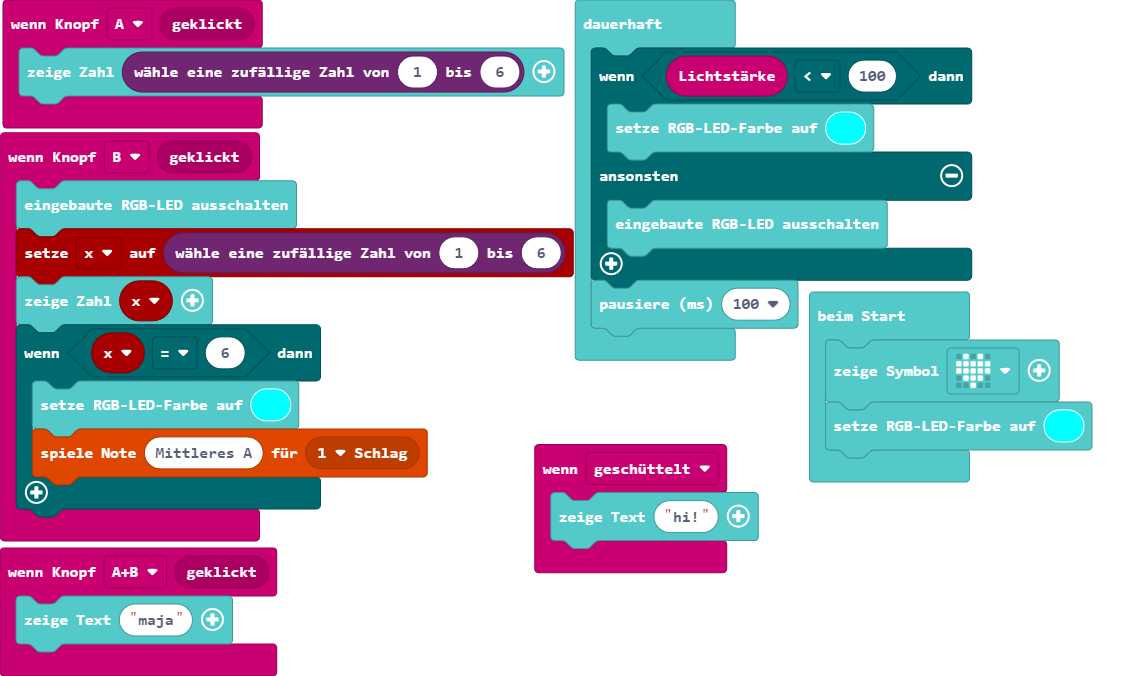
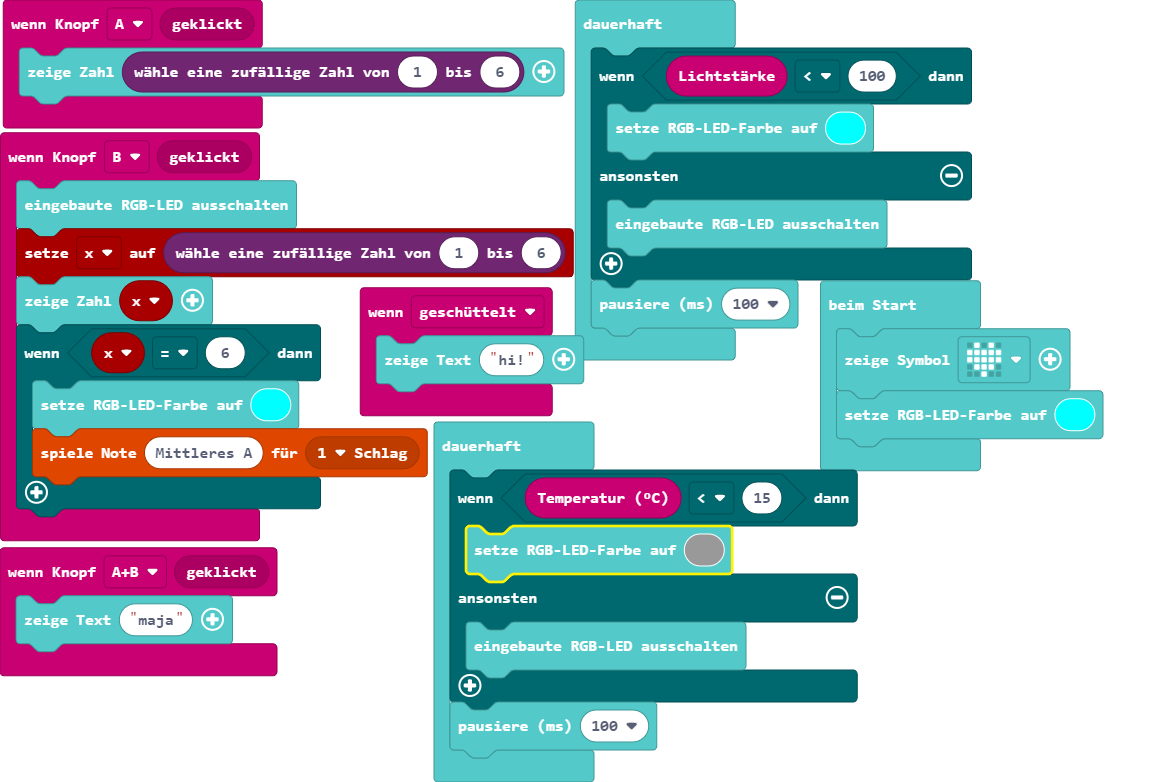
Aktualisiere main.blocks, main.ts

diff --git a/main.ts b/main.ts
@@ -27,3 +27,11 @@ basic.forever(function () {
     }
     basic.pause(100)
 })
+basic.forever(function () {
+    if (input.temperature() < 15) {
+        basic.setLedColor(0x999999)
+    } else {
+        basic.turnRgbLedOff()
+    }
+    basic.pause(100)
+})
